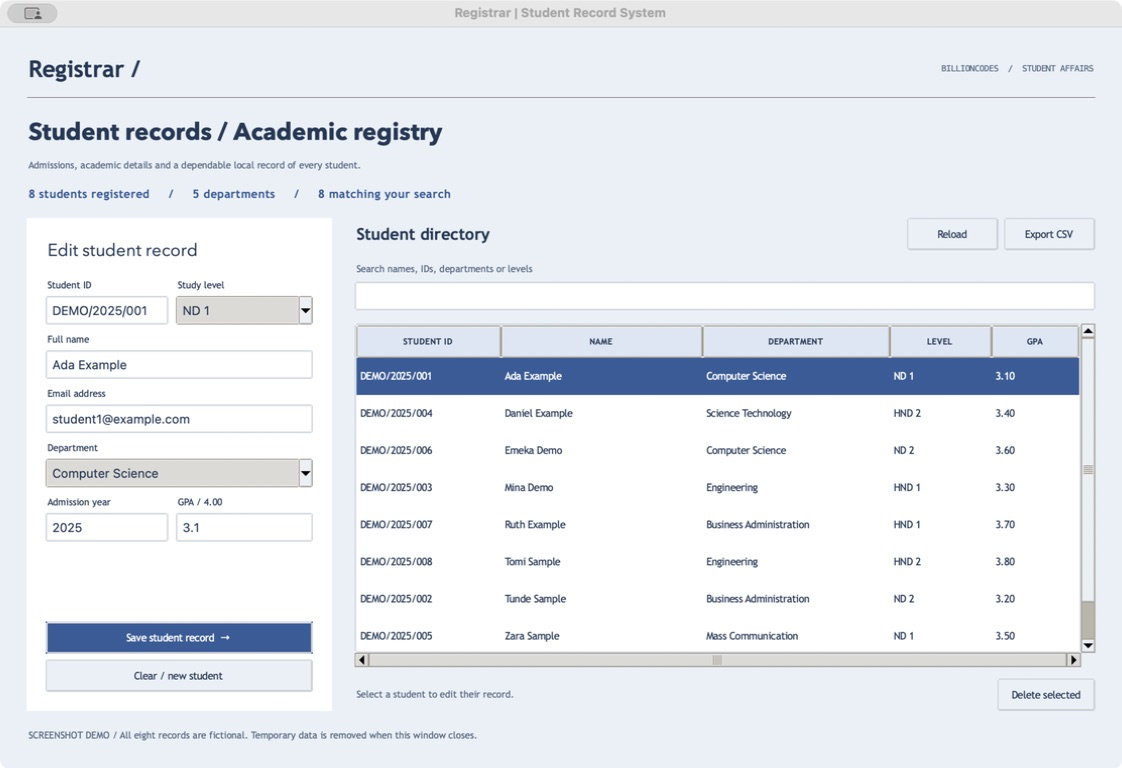
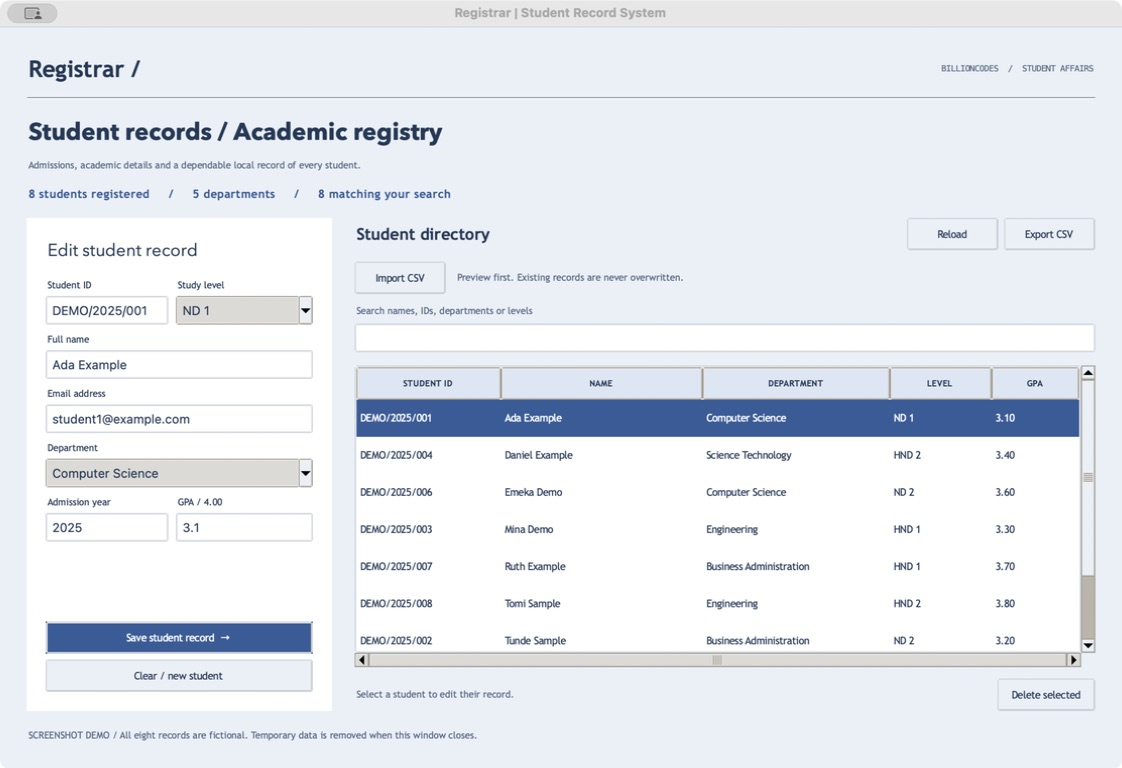
Add validated CSV intake with atomic previewed imports

diff --git a/app.py b/app.py
@@ -72,6 +72,10 @@ class Registrar(ttk.Frame):
         ttk.Label(toolbar, text="Student directory", style="Section.TLabel").pack(side="left")
         ttk.Button(toolbar, text="Export CSV", command=self.export).pack(side="right")
         ttk.Button(toolbar, text="Reload", command=self.reload).pack(side="right", padx=6)
+        import_bar = ttk.Frame(library)
+        import_bar.pack(fill="x", pady=(0, 10))
+        ttk.Button(import_bar, text="Import CSV", command=self.import_csv).pack(side="left")
+        ttk.Label(import_bar, text="Preview first. Existing records are never overwritten.", style="Muted.TLabel").pack(side="left", padx=10)
         ttk.Label(library, text="Search names, IDs, departments or levels", style="Muted.TLabel").pack(anchor="w", pady=(0, 6))
         self.query = tk.StringVar()
         ttk.Entry(library, textvariable=self.query).pack(fill="x", pady=(0, 14))
@@ -198,6 +202,56 @@ class Registrar(ttk.Frame):
             except (RecordError, OSError) as error:
                 messagebox.showerror("Could not export records", str(error), parent=self.root)
 
+    def import_csv(self):
+        path = filedialog.askopenfilename(parent=self.root, title="Preview student CSV", filetypes=[("CSV spreadsheet", "*.csv")])
+        if not path:
+            return
+        try:
+            preview = self.store.preview_import(path)
+        except (RecordError, OSError) as error:
+            messagebox.showerror("Could not preview CSV", str(error), parent=self.root)
+            return
+        self.show_import_preview(preview)
+
+    def show_import_preview(self, preview):
+        dialog = tk.Toplevel(self.root)
+        dialog.title("Review CSV import")
+        dialog.geometry("820x540")
+        dialog.transient(self.root)
+        frame = ttk.Frame(dialog, padding=24)
+        frame.pack(fill="both", expand=True)
+        ttk.Label(frame, text="Review before importing", style="Section.TLabel").pack(anchor="w")
+        ttk.Label(frame, text=f"{preview.additions} new records / {preview.unchanged} unchanged / {len(preview.errors)} errors", style="Summary.TLabel").pack(anchor="w", pady=12)
+        ttk.Label(frame, text="Import is all-or-nothing. Existing records will not be replaced.", style="Muted.TLabel").pack(anchor="w")
+        detail = tk.Text(frame, wrap="word", height=13, bg="white", fg=INK, font=("Menlo", 10), padx=12, pady=12)
+        detail.pack(fill="both", expand=True, pady=14)
+        if preview.errors:
+            detail.insert("end", "\n\n".join(preview.errors[:30]))
+            if len(preview.errors) > 30:
+                detail.insert("end", f"\n\n...and {len(preview.errors) - 30} more errors. Fix the file and preview again.")
+        else:
+            for row in preview.records[:30]:
+                detail.insert("end", f'{row["student_id"]} / {row["name"]} / {row["department"]} / {row["level"]}\n')
+            if len(preview.records) > 30:
+                detail.insert("end", f"\nShowing the first 30 of {len(preview.records)} valid records.")
+        detail.configure(state="disabled")
+        buttons = ttk.Frame(frame)
+        buttons.pack(fill="x")
+        def confirm():
+            try:
+                count = self.store.commit_import(preview)
+                self.clear()
+                self.refresh()
+                self.status.set(f"Imported {count} students. Existing records were preserved.")
+                dialog.destroy()
+            except (RecordError, OSError) as error:
+                messagebox.showerror("Import not applied", str(error), parent=dialog)
+                dialog.destroy()
+        ttk.Button(buttons, text="Cancel", command=dialog.destroy).pack(side="right")
+        ttk.Button(buttons, text=f"Import {preview.additions} new records", command=confirm, state="disabled" if preview.errors or not preview.additions else "normal", style="Primary.TButton").pack(side="right", padx=10)
+        dialog.grab_set()
+        return dialog
+
 
 def main():
     parser = argparse.ArgumentParser()
@@ -233,6 +287,23 @@ def main():
                 app.refresh()
                 assert not app.tree.get_children()
                 print("PASS: actual Tkinter window, save, selection, edit, search and delete refresh.")
+                incoming = RecordStore(Path(directory) / "incoming.json")
+                incoming.save(sample)
+                incoming.export_csv(Path(directory) / "incoming.csv")
+                preview = app.store.preview_import(Path(directory) / "incoming.csv")
+                dialog = app.show_import_preview(preview)
+                root.update()
+                assert len(app.tree.get_children()) == 0
+                def children(widget):
+                    for child in widget.winfo_children():
+                        yield child
+                        yield from children(child)
+                confirm = next(widget for widget in children(dialog) if isinstance(widget, ttk.Button) and str(widget.cget("text")).startswith("Import 1"))
+                confirm.invoke()
+                root.update()
+                assert len(app.tree.get_children()) == 1
+                assert "Imported 1" in app.status.get()
+                print("PASS: CSV preview dialog, explicit confirmation and imported directory refresh.")
             root.destroy()
             return
         Registrar(root, RecordStore(args.data))

diff --git a/records.py b/records.py
@@ -1,5 +1,6 @@
 """Validated student records with atomic JSON persistence and stale-write protection."""
 import csv
+import io
 import fcntl
 import json
 import math
@@ -7,10 +8,23 @@ import os
 import re
 import tempfile
 from datetime import date
+from dataclasses import dataclass
 from pathlib import Path
 
 DEPARTMENTS = ("Computer Science", "Business Administration", "Engineering", "Science Technology", "Mass Communication")
 LEVELS = ("ND 1", "ND 2", "HND 1", "HND 2")
+CSV_FIELDS = ("student_id", "name", "email", "department", "level", "year", "gpa")
+MAX_IMPORT_BYTES = 2 * 1024 * 1024
+MAX_IMPORT_ROWS = 2000
+
+
+@dataclass(frozen=True)
+class ImportPreview:
+    revision: int
+    records: tuple
+    additions: int
+    unchanged: int
+    errors: tuple
 
 
 class RecordError(ValueError):
@@ -119,11 +133,74 @@ class RecordStore:
             raise RecordError("The selected student no longer exists.")
         self._commit(records)
 
+    def preview_import(self, path):
+        """Parse a bounded CSV snapshot without changing the registry."""
+        with Path(path).open("rb") as source:
+            raw = source.read(MAX_IMPORT_BYTES + 1)
+        if len(raw) > MAX_IMPORT_BYTES:
+            raise RecordError("CSV files must be no larger than 2 MiB.")
+        try:
+            reader = csv.reader(io.StringIO(raw.decode("utf-8-sig"), newline=""), strict=True)
+            headers = next(reader, [])
+            if len(headers) != len(CSV_FIELDS) or set(headers) != set(CSV_FIELDS):
+                raise RecordError("Use exactly these CSV headers: " + ", ".join(CSV_FIELDS))
+            records, errors, seen = [], [], set()
+            existing = {row["student_id"]: row for row in self._records}
+            unchanged = 0
+            for index, values in enumerate(reader, start=1):
+                if index > MAX_IMPORT_ROWS:
+                    raise RecordError("Import at most 2,000 rows at a time.")
+                if not values or not any(value.strip() for value in values):
+                    continue
+                try:
+                    if len(values) != len(headers):
+                        raise RecordError("The number of cells does not match the headers.")
+                    record = validate(dict(zip(headers, values)))
+                    student_id = record["student_id"]
+                    if student_id in seen:
+                        raise RecordError(f"Duplicate student ID {student_id} in this file.")
+                    seen.add(student_id)
+                    if student_id in existing:
+                        if existing[student_id] != record:
+                            raise RecordError(f"{student_id} already exists with different details. Edit it separately; import never overwrites records.")
+                        unchanged += 1
+                    records.append(record)
+                except RecordError as error:
+                    errors.append(f"Row {index + 1}: {error}")
+            if not records and not errors:
+                errors.append("The file contains no student records.")
+            return ImportPreview(self.revision, tuple(records), len(records) - unchanged, unchanged, tuple(errors))
+        except (UnicodeDecodeError, csv.Error) as error:
+            raise RecordError("Use a valid UTF-8 CSV file; its contents could not be parsed.") from error
+
+    def commit_import(self, preview):
+        if not isinstance(preview, ImportPreview) or preview.errors:
+            raise RecordError("Fix all CSV errors and preview the file again before importing.")
+        if preview.revision != self.revision:
+            raise RecordError("Records changed after this preview. Preview the file again.")
+        existing = {row["student_id"]: row for row in self._records}
+        additions, seen = [], set()
+        for values in preview.records:
+            record = validate(values)
+            student_id = record["student_id"]
+            if student_id in seen:
+                raise RecordError("Duplicate student IDs in the import preview.")
+            seen.add(student_id)
+            if student_id in existing and existing[student_id] != record:
+                raise RecordError("Import cannot overwrite existing records.")
+            if student_id not in existing:
+                additions.append(record)
+        if additions:
+            self._commit([*self._records, *additions])
+        elif self._read()[0] != self.revision:
+            raise RecordError("The file changed in another window. Reload before importing.")
+        return len(additions)
+
     def export_csv(self, path):
         target = Path(path)
         if target.resolve() in {self.path.resolve(), self.path.with_suffix(self.path.suffix + ".lock").resolve()}:
             raise RecordError("Export to a different file, not the record database.")
-        fields = ("student_id", "name", "email", "department", "level", "year", "gpa")
+        fields = CSV_FIELDS
         with target.open("w", newline="", encoding="utf-8-sig") as stream:
             writer = csv.writer(stream)
             writer.writerow(fields)

diff --git a/test_records.py b/test_records.py
@@ -1,9 +1,10 @@
 import json
+import csv
 import tempfile
 import unittest
 from pathlib import Path
 from unittest.mock import patch
-from records import RecordError, RecordStore, validate
+from records import RecordError, RecordStore, validate, CSV_FIELDS
 
 SAMPLE = {"student_id":"nd/001","name":"Ada Example","email":"ada@example.com","department":"Computer Science","level":"ND 1","gpa":3.75,"year":2026}
 
@@ -70,6 +71,81 @@ class RecordTests(unittest.TestCase):
         self.assertIn("'=DANGEROUS()", output.read_text(encoding="utf-8-sig"))
         with self.assertRaises(RecordError):
             self.store.export_csv(self.path)
+
+    def csv_file(self, records, headers=CSV_FIELDS):
+        path = self.path.parent / "incoming.csv"
+        with path.open("w", encoding="utf-8-sig", newline="") as stream:
+            writer = csv.writer(stream)
+            writer.writerow(headers)
+            for record in records:
+                writer.writerow([record.get(field, "") for field in headers])
+        return path
+
+    def test_import_preview_atomic_commit_and_idempotent_reimport(self):
+        path = self.csv_file([SAMPLE, {**SAMPLE, "student_id": "ND/002", "name": "Tunde Example"}])
+        preview = self.store.preview_import(path)
+        self.assertEqual((preview.additions, preview.unchanged, preview.errors), (2, 0, ()))
+        self.assertFalse(self.path.exists())
+        self.assertEqual(self.store.commit_import(preview), 2)
+        self.assertEqual(len(RecordStore(self.path).all()), 2)
+        next_preview = self.store.preview_import(path)
+        revision = self.store.revision
+        self.assertEqual((next_preview.additions, next_preview.unchanged), (0, 2))
+        self.assertEqual(self.store.commit_import(next_preview), 0)
+        self.assertEqual(self.store.revision, revision)
+
+    def test_import_errors_never_write_partial_records(self):
+        self.store.save(SAMPLE)
+        before = self.path.read_bytes()
+        path = self.csv_file([{**SAMPLE, "student_id": "ND/002"}, {**SAMPLE, "name": "Conflicting name"}, {**SAMPLE, "student_id": "ND/003", "gpa": "bad"}])
+        preview = self.store.preview_import(path)
+        self.assertEqual(len(preview.errors), 2)
+        self.assertIn("Row 3", preview.errors[0])
+        with self.assertRaises(RecordError):
+            self.store.commit_import(preview)
+        self.assertEqual(self.path.read_bytes(), before)
+
+    def test_import_rejects_duplicate_ids_and_bad_headers(self):
+        preview = self.store.preview_import(self.csv_file([SAMPLE, SAMPLE]))
+        self.assertIn("Duplicate", preview.errors[0])
+        for headers in [CSV_FIELDS[:-1], (*CSV_FIELDS[:-1], "name"), (*CSV_FIELDS, "extra")]:
+            with self.subTest(headers=headers), self.assertRaises(RecordError):
+                self.store.preview_import(self.csv_file([SAMPLE], headers))
+
+    def test_import_snapshot_is_independent_of_subsequent_file_edits(self):
+        path = self.csv_file([SAMPLE])
+        preview = self.store.preview_import(path)
+        path.write_text("invalid file after preview", encoding="utf-8")
+        self.assertEqual(self.store.commit_import(preview), 1)
+
+    def test_import_rejects_stale_preview_and_preserves_data_on_disk_failure(self):
+        preview = self.store.preview_import(self.csv_file([SAMPLE]))
+        other = RecordStore(self.path)
+        other.save({**SAMPLE, "student_id": "ND/099"})
+        with self.assertRaises(RecordError):
+            self.store.commit_import(preview)
+        self.store.reload()
+        preview = self.store.preview_import(self.csv_file([SAMPLE]))
+        before = self.path.read_bytes()
+        with patch("records.os.replace", side_effect=OSError("disk full")), self.assertRaises(OSError):
+            self.store.commit_import(preview)
+        self.assertEqual(self.path.read_bytes(), before)
+        self.store.save({**SAMPLE, "student_id": "ND/098"})
+        with self.assertRaisesRegex(RecordError, "after this preview"):
+            self.store.commit_import(preview)
+
+    def test_import_size_row_encoding_and_empty_limits(self):
+        path = self.csv_file([])
+        self.assertTrue(self.store.preview_import(path).errors)
+        path.write_bytes(b"\xff\xfe")
+        with self.assertRaisesRegex(RecordError, "UTF-8"):
+            self.store.preview_import(path)
+        path.write_bytes(b"x" * (2 * 1024 * 1024 + 1))
+        with self.assertRaisesRegex(RecordError, "2 MiB"):
+            self.store.preview_import(path)
+        path = self.csv_file([{**SAMPLE, "student_id": f"ND/{index}"} for index in range(2001)])
+        with self.assertRaisesRegex(RecordError, "2,000"):
+            self.store.preview_import(path)
 
 
 if __name__ == "__main__":

diff --git a/README.md b/README.md
@@ -2,6 +2,12 @@
 
 A local Python/Tkinter desktop workspace for student records: create, edit, delete, search and export a directory.
 
+## Spreadsheet intake
+
+Use **Import CSV** to review a spreadsheet before importing it. [sample-import.csv](sample-import.csv) provides fictional example rows and the exact headers: `student_id,name,email,department,level,year,gpa`. UTF-8 CSV with or without a BOM is accepted, up to 2 MiB and 2,000 rows per import. Header order may vary; missing, duplicate or unknown headers are rejected.
+
+The preview reports new, unchanged and invalid/conflicting records. An existing ID with identical details is skipped; different details block the entire import. No existing record is silently overwritten. Confirming imports the reviewed snapshot in one atomic write. If the registry changes after preview, reload and preview again. Cancelling leaves the registry unchanged. Exported spreadsheet formula escapes remain literal text on re-import, so review any such fields explicitly.
+
 This is a new implementation of the student-record concept in Josiah Adeyemo's portfolio, not recovered code. No real student data is included.
 
 ![Registrar desktop interface showing the record editor and student directory](docs/preview.webp)
@@ -19,7 +25,7 @@ python3 app.py --smoke-test
 python3 preview.py
 ```
 
-The smoke test opens the actual GUI and exercises save, edit, search and removal with temporary synthetic records. A graphical desktop is required.
+The smoke test opens the actual GUI and exercises save, edit, search, removal, CSV preview and confirmed import with temporary synthetic records. A graphical desktop is required.
 
 `preview.py` opens the same interface with disposable fictional records for screenshots. It does not read or modify your normal student data, and removes its temporary directory when the window closes.
 
